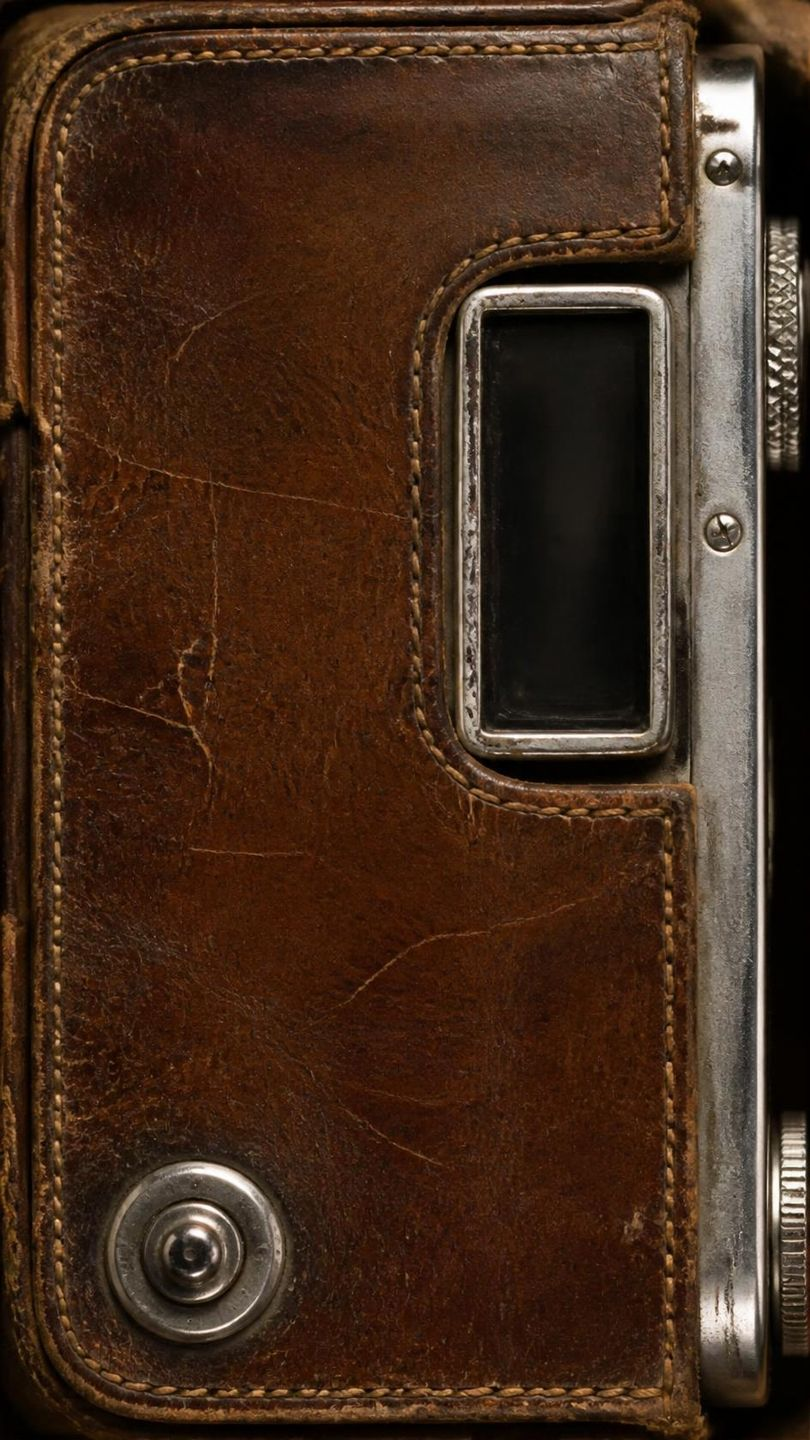
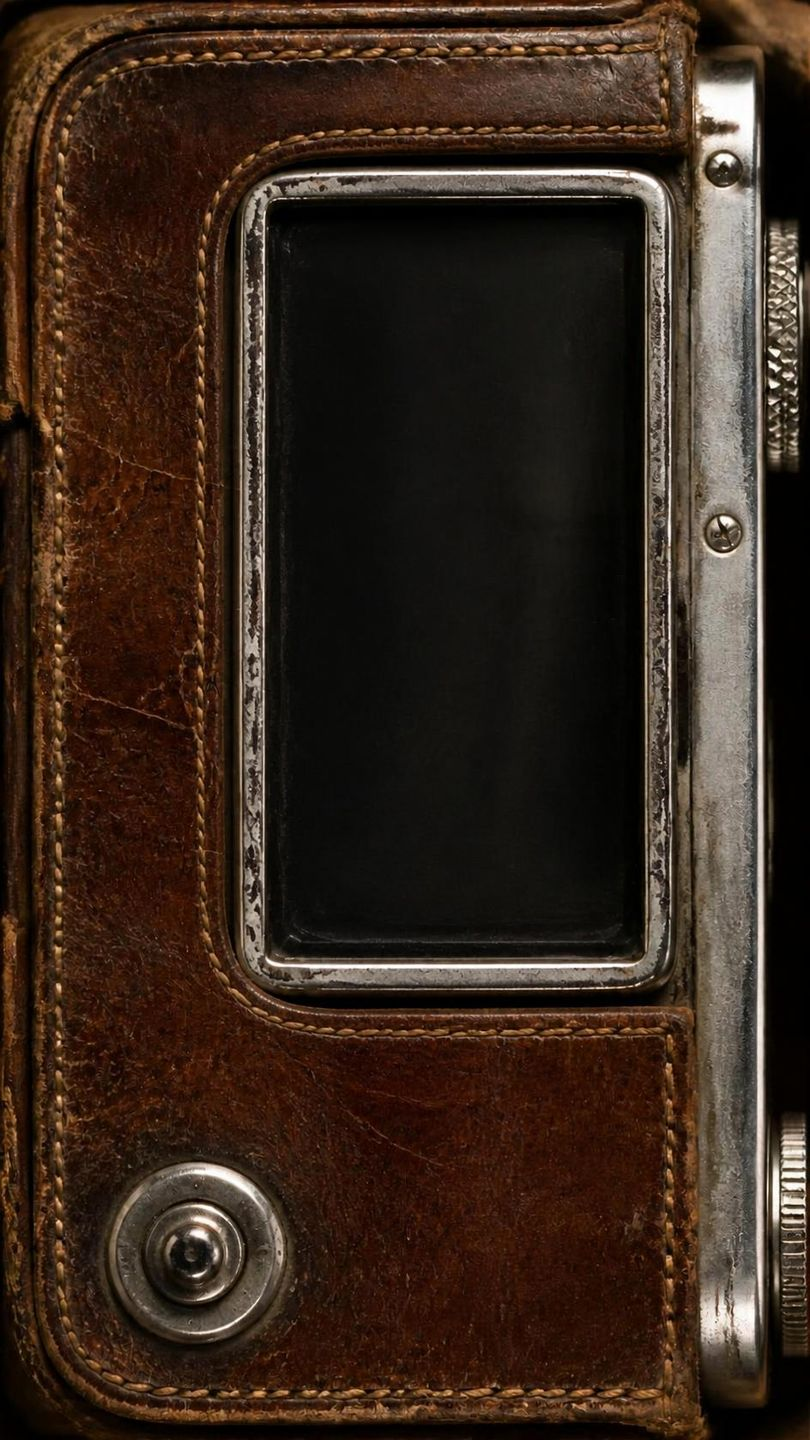
Delhi 1955: verso nítido com visor maior
Claude-Session: https://claude.ai/code/session_019kqAkVGodtTPLnZ4JhFLF3

diff --git a/app/index.html b/app/index.html
@@ -7,7 +7,7 @@
 <link rel="icon" href="img/icone-192.png">
 <link rel="apple-touch-icon" href="img/icone-192.png">
 <link rel="manifest" href="manifest.webmanifest">
-<script>window.__VERSAO = "10/10 · 10:37";</script>
+<script>window.__VERSAO = "10/10 · 10:39";</script>
 <script src="config.js"></script>
 <script src="shim.js"></script>
 <style>*,*::before,*::after{box-sizing:border-box}html,body{margin:0;height:100%}</style>
@@ -4973,7 +4973,7 @@ const FOTO_CAM = {
   quatro: { visor: [.255, .31, .73, .625], botao: [.512, .786, .09], selfie: [.8, .88], luzes: [.356, .433, .512, .589].map(y => [.146, y]) },
   // a de madeira mostra a imagem de cabeça para baixo no vidro fosco, como as câmeras de campo de verdade
   campo: { visor: [.15, .127, .559, .489], botao: [.694, .815, .09], selfie: [.24, .78] },
-  couro: { visor: [.33, .136, .786, .658], botao: [.234, .864, .1], selfie: [.66, .8] },
+  couro: { visor: [.327, .137, .796, .664], botao: [.24, .875, .1], selfie: [.66, .8] },
 };
 // compartimentos da mala (fração da imagem): 3 colunas × 2 fileiras
 const MALA_CASAS = [[.155, .41, .35, .545], [.39, .41, .605, .545], [.635, .41, .86, .545], [.135, .575, .345, .725], [.38, .575, .62, .725], [.645, .575, .88, .725]];

diff --git a/app/caravana-do-ceu.html b/app/caravana-do-ceu.html
@@ -4959,7 +4959,7 @@ const FOTO_CAM = {
   quatro: { visor: [.255, .31, .73, .625], botao: [.512, .786, .09], selfie: [.8, .88], luzes: [.356, .433, .512, .589].map(y => [.146, y]) },
   // a de madeira mostra a imagem de cabeça para baixo no vidro fosco, como as câmeras de campo de verdade
   campo: { visor: [.15, .127, .559, .489], botao: [.694, .815, .09], selfie: [.24, .78] },
-  couro: { visor: [.33, .136, .786, .658], botao: [.234, .864, .1], selfie: [.66, .8] },
+  couro: { visor: [.327, .137, .796, .664], botao: [.24, .875, .1], selfie: [.66, .8] },
 };
 // compartimentos da mala (fração da imagem): 3 colunas × 2 fileiras
 const MALA_CASAS = [[.155, .41, .35, .545], [.39, .41, .605, .545], [.635, .41, .86, .545], [.135, .575, .345, .725], [.38, .575, .62, .725], [.645, .575, .88, .725]];

diff --git a/app/sw.js b/app/sw.js
@@ -1,4 +1,4 @@
-// marca: e86f0ce006
+// marca: 758f76b9af
 // Guarda o app inteiro no celular para abrir mesmo sem sinal (templo, estrada, wi-fi fraco do hotel).
 const CACHE = "caravana-v6", EXTRA = "caravana-ext", MAPA = "caravana-mapa";
 // lista de arquivos gerada pelo tools/gerar-site.py
